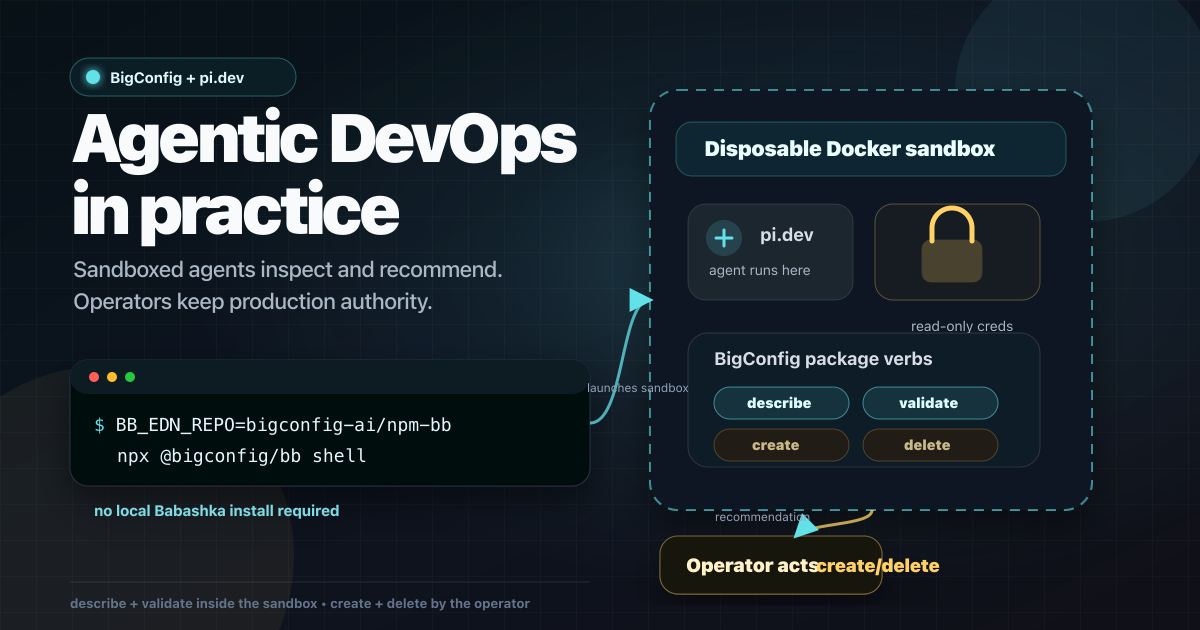
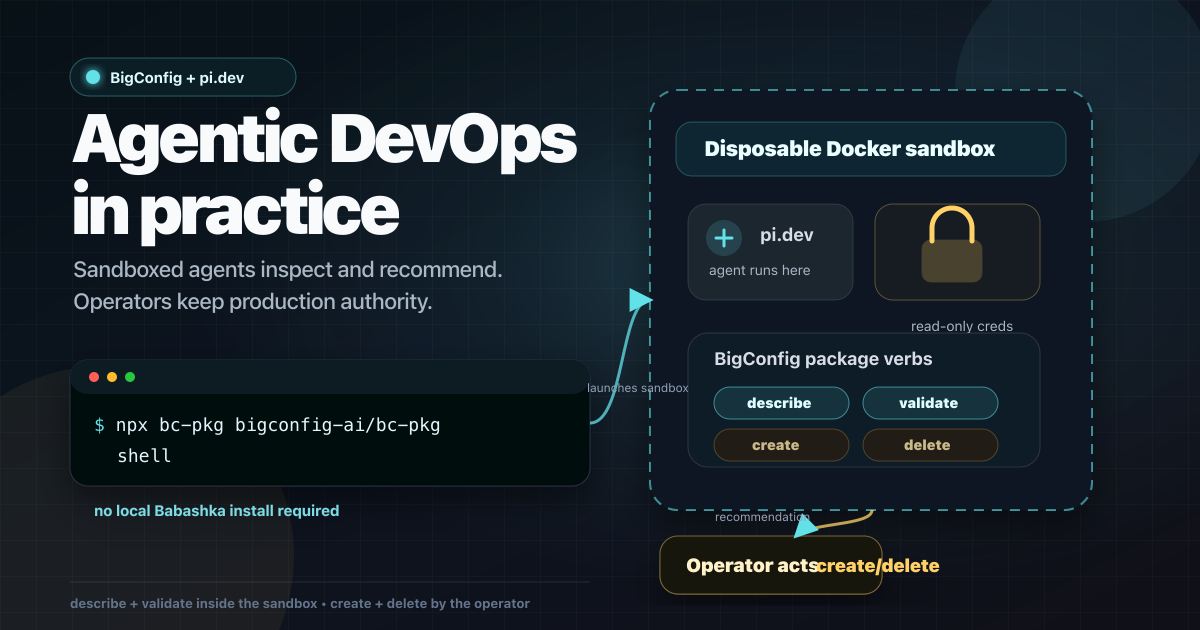
Rename bb launcher to bc-pkg

Changed region(s): [[0.0925, 0.6635, 0.37, 0.754]]

diff --git a/src/pages/talk/agentic-workflow-model/index.html b/src/pages/talk/agentic-workflow-model/index.html
@@ -231,7 +231,7 @@ aws ecs create-cluster --cluster-name "$CLUSTER" --region "$REGION"</code></pre>
       <section>
         <h2>Start with the Sandbox</h2>
         <p style="font-size: 0.85em;">The entry point is one command:</p>
-        <pre style="font-size: 0.5em;"><code>BB_EDN_REPO=bigconfig-ai/npm-bb npx @bigconfig/bb shell</code></pre>
+        <pre style="font-size: 0.5em;"><code>npx bc-pkg bigconfig-ai/bc-pkg shell</code></pre>
         <p style="font-size: 0.75em;">Launches Babashka through <code>npx</code> → reads <code>bb.edn</code> → runs Docker → creates a disposable container sandbox.</p>
         <div class="highlight-box" style="margin-top: 0.5em; font-size: 0.65em;">
           <p style="margin: 0;">The launcher and sandbox are the <strong>operating environment</strong>.<br>A BigConfig package is what you operate <em>from inside</em> that environment.</p>
@@ -261,7 +261,7 @@ aws ecs create-cluster --cluster-name "$CLUSTER" --region "$REGION"</code></pre>
         <div style="background: #f8fafc; border-radius: 8px; padding: 0.6em 1em;">
           <div style="font-size: 0.7em; text-align: left; font-family: monospace; line-height: 1.8;">
             operator<br>
-            &nbsp;&nbsp;→ launches sandbox with @bigconfig/bb<br>
+            &nbsp;&nbsp;→ launches sandbox with bc-pkg<br>
             &nbsp;&nbsp;→ starts pi.dev agent inside sandbox<br>
             &nbsp;&nbsp;→ provides read-only credentials only<br>
             &nbsp;&nbsp;→ asks agent to run describe/validate<br>
@@ -341,7 +341,7 @@ aws ecs create-cluster --cluster-name "$CLUSTER" --region "$REGION"</code></pre>
         <div style="background: #f0fdf4; border-radius: 8px; padding: 0.5em 1em; text-align: left; display: inline-block;">
           <ul style="font-size: 0.7em; margin: 0;">
             <li>Run agents inside <strong>disposable Docker containers</strong></li>
-            <li>Launch the sandbox with <strong>@bigconfig/bb</strong></li>
+            <li>Launch the sandbox with <strong>bc-pkg</strong></li>
             <li>Use BigConfig packages with a <strong>clear four-verb interface</strong></li>
             <li>Give the sandbox <strong>read-only credentials</strong> only</li>
             <li>Use <strong>describe and validate</strong> for agent investigation</li>

diff --git a/src/pages/talk/full-agentic-devops-talk/index.html b/src/pages/talk/full-agentic-devops-talk/index.html
@@ -560,7 +560,7 @@ k8s/
           <section>
             <h3>Start with the Sandbox</h3>
             <p class="small">The entry point is one command:</p>
-            <pre><code class="language-bash">BB_EDN_REPO=bigconfig-ai/npm-bb npx @bigconfig/bb shell</code></pre>
+            <pre><code class="language-bash">npx bc-pkg bigconfig-ai/bc-pkg shell</code></pre>
             <p class="small">Launches Babashka through <code>npx</code> → reads <code>bb.edn</code> → runs Docker → creates a disposable container sandbox.</p>
             <div class="highlight-box" style="margin-top: 0.5em; font-size: 0.65em;">
               <p style="margin: 0;">The launcher and sandbox are the <strong>operating environment</strong>.<br>A BigConfig package is what you operate <em>from inside</em> that environment.</p>
@@ -641,7 +641,7 @@ Steps:
             <h3>The Golden Path</h3>
             <div class="highlight-box" style="font-family: monospace; font-size: 0.6em; line-height: 1.8;">
               operator<br>
-              &nbsp;&nbsp;→ launches sandbox with @bigconfig/bb<br>
+              &nbsp;&nbsp;→ launches sandbox with bc-pkg<br>
               &nbsp;&nbsp;→ starts pi.dev agent inside sandbox<br>
               &nbsp;&nbsp;→ provides read-only credentials only<br>
               &nbsp;&nbsp;→ asks agent to run describe/validate<br>
@@ -717,7 +717,7 @@ Steps:
             <div class="highlight-box" style="display: inline-block; text-align: left;">
               <ul style="font-size: 0.68em; margin: 0;">
                 <li>✅ Run agents inside <strong>disposable Docker containers</strong></li>
-                <li>✅ Launch the sandbox with <strong>@bigconfig/bb</strong></li>
+                <li>✅ Launch the sandbox with <strong>bc-pkg</strong></li>
                 <li>✅ Use BigConfig packages with a <strong>clear four-verb interface</strong></li>
                 <li>✅ Give the sandbox <strong>read-only credentials</strong> only</li>
                 <li>✅ Use <strong>describe and validate</strong> for agent investigation</li>

diff --git a/src/pages/talk/agentic-devops-in-practice/index.html b/src/pages/talk/agentic-devops-in-practice/index.html
@@ -55,13 +55,13 @@
       <section>
         <h2>The Operating Model</h2>
         <ol class="steps">
-          <li>Launch a <strong>disposable Docker sandbox</strong> with <code>@bigconfig/bb</code></li>
+          <li>Launch a <strong>disposable Docker sandbox</strong> with <code>bc-pkg</code></li>
           <li>Give the sandbox <strong>read-only credentials only</strong></li>
           <li>Agent runs <code>describe</code> + <code>validate</code> to inspect</li>
           <li>Agent recommends the next step</li>
           <li>Operator decides and runs <code>create</code> / <code>delete</code></li>
         </ol>
-        <p style="margin-top: 1em; font-size: 0.85em;"><code>npx @bigconfig/bb shell</code> → container sandbox → pi.dev agent</p>
+        <p style="margin-top: 1em; font-size: 0.85em;"><code>npx bc-pkg bigconfig-ai/bc-pkg shell</code> → container sandbox → pi.dev agent</p>
       </section>
 
       <!-- SLIDE 4: The four verbs -->

diff --git a/plans/06.md b/plans/06.md
@@ -4,7 +4,7 @@
 
 Write a blog article titled **"Agentic DevOps in practice"**.
 
-The article should explain a practical operating model for using agents with BigConfig packages safely: launch a disposable Docker sandbox with `@bigconfig/bb`, run the agent inside the sandbox with read-only credentials, let the agent use `describe` and `validate`, and keep `create` and `delete` as operator actions.
+The article should explain a practical operating model for using agents with BigConfig packages safely: launch a disposable Docker sandbox with `bc-pkg`, run the agent inside the sandbox with read-only credentials, let the agent use `describe` and `validate`, and keep `create` and `delete` as operator actions.
 
 ## Main thesis
 
@@ -29,23 +29,23 @@ Agentic DevOps is not about giving an agent the same power as the operator. The 
 Show this command near the top of the article:
 
 ```bash
-BB_EDN_REPO=bigconfig-ai/npm-bb npx @bigconfig/bb shell
+npx bc-pkg bigconfig-ai/bc-pkg shell
 ```
 
 Explain that:
 
-- `@bigconfig/bb` is the launcher.
+- `bc-pkg` is the launcher.
 - It launches Babashka `bb` through `npx`.
 - Node.js/npm tooling is enough to invoke the launcher.
 - No local Babashka installation is required.
-- `BB_EDN_REPO=bigconfig-ai/npm-bb` points to a repository containing a `bb.edn`.
+- `bigconfig-ai/bc-pkg` is passed to `bc-pkg` as the repository containing a `bb.edn`.
 - The `bb.edn` contains a `shell` task.
 - The `shell` task uses Docker and the repo's `Dockerfile` to create a disposable container sandbox.
 - The agent runs inside that sandbox.
 
 ## Correct terminology
 
-- `bigconfig-ai/npm-bb` is **not** a BigConfig package.
+- `bigconfig-ai/bc-pkg` is **not** a BigConfig package.
 - It is a repository containing:
   - a `bb.edn`
   - a `shell` task
@@ -86,7 +86,7 @@ Use this flow as the core pattern:
 
 ```text
 operator
-  -> launches sandbox with @bigconfig/bb
+  -> launches sandbox with bc-pkg
   -> starts pi.dev agent inside sandbox
   -> provides read-only credentials only
   -> asks agent to run describe/validate
@@ -137,7 +137,7 @@ Anti-pattern:
 ## Patterns to promote
 
 - Run agents inside disposable Docker containers.
-- Launch the sandbox with `@bigconfig/bb`.
+- Launch the sandbox with `bc-pkg`.
 - Use `describe` and `validate` for agent investigation.
 - Give the sandbox read-only credentials only.
 - Keep `create` and `delete` with the operator.
@@ -163,15 +163,15 @@ Introduce the problem: agents are useful for operations, but they need boundarie
 Present the command:
 
 ```bash
-BB_EDN_REPO=bigconfig-ai/npm-bb npx @bigconfig/bb shell
+npx bc-pkg bigconfig-ai/bc-pkg shell
 ```
 
 Explain the launcher flow:
 
 ```text
-npx @bigconfig/bb
+npx bc-pkg bigconfig-ai/bc-pkg shell
   -> launches Babashka bb
-  -> reads bb.edn from bigconfig-ai/npm-bb
+  -> reads bb.edn from bigconfig-ai/bc-pkg
   -> runs the shell task
   -> uses Dockerfile/Docker
   -> creates a disposable container sandbox

diff --git a/plans/03.md b/plans/03.md
@@ -4,7 +4,7 @@
 
 # Requirement
 - to install the package bigconfig-ai/once you need a one-line prompt
-- the prompt is "run BB_EDN_REPO=bigconfig-ai/once npx @bigconfig/bb validate and iterate on failures"
+- the prompt is "run npx bc-pkg bigconfig-ai/once validate and iterate on failures"
 - model used deepseek-v4-flash
 - total cost 1.3 cents
 
@@ -22,7 +22,7 @@ Not a typo. One cent and three tenths — less than the rounding error on your c
 
 No setup wizard. No 40-page docs. No "clone this, export that, now configure the YAML." You paste a single line into your AI coding agent:
 
-run BB_EDN_REPO=bigconfig-ai/once npx @bigconfig/bb validate and iterate on failures
+run npx bc-pkg bigconfig-ai/once validate and iterate on failures
 
 …and it installs itself. It validates, hits failures, fixes them, and re-runs until it's green. The whole loop ran on deepseek-v4-flash and cost just over a penny.
 

diff --git a/plans/02-linkedin.md b/plans/02-linkedin.md
@@ -13,7 +13,7 @@ So I built BigConfig: an infrastructure package manager where configuration is r
 
 Here's the part I'm proud of. There's no install script to study, no getting-started guide to skim, no flags to memorize. You hand one line to your AI coding agent:
 
-run BB_EDN_REPO=bigconfig-ai/once npx @bigconfig/bb validate and iterate on failures
+run npx bc-pkg bigconfig-ai/once validate and iterate on failures
 
 That's it. The agent pulls the package set, runs validation, reads the failures, fixes them, and re-runs until your configuration is green. You review a working result instead of assembling one by hand. The feedback loop that used to be a human in a terminal is now a tight machine loop — and validation is the contract that keeps it honest.
 

diff --git a/plans/04.md b/plans/04.md
@@ -13,7 +13,7 @@
 - Anti-pattern: The Agent has full credentials like the operator
 - Anti-pattern: Creating MCPs, instead of SSH ForceCommand CLIs
 - CTA: https://bigconfig.ai/
-- One-line command: BB_EDN_REPO=bigconfig-ai/npm-bb npx @bigconfig/bb shell
+- One-line command: npx bc-pkg bigconfig-ai/bc-pkg shell
 
 # Deliverables
 - Slide: `public/campaign-cost.svg` (1200x627, LinkedIn share format, matches site brand palette)

diff --git a/plans/02.md b/plans/02.md
@@ -3,4 +3,4 @@ Make a slide with svg for a marketing campaign for BigConfig
 
 # Requirement
 - to install the package bigconfig-ai/once you need a one-line prompt
-- the prompt is "run BB_EDN_REPO=bigconfig-ai/once npx @bigconfig/bb validate and iterate on failures"
+- the prompt is "run npx bc-pkg bigconfig-ai/once validate and iterate on failures"

diff --git a/plans/09.md b/plans/09.md
@@ -1,0 +1,9 @@
+# Goal
+Global renaming
+
+# Requirements
+- Validate command: `npx bc-pkg bigconfig-ai/once validate`
+- Repository selection is positional via the CLI.
+- Shell command: `npx bc-pkg bigconfig-ai/bc-pkg shell`
+- GitHub repo: `bigconfig-ai/bc-pkg`
+- Node.js package: `bc-pkg`

diff --git a/plans/04-linkedin-post.md b/plans/04-linkedin-post.md
@@ -40,7 +40,7 @@ Containers do not magically make production safe. But a disposable execution env
 Run it in a disposable container:
 
 ```bash
-BB_EDN_REPO=bigconfig-ai/npm-bb npx @bigconfig/bb shell
+npx bc-pkg bigconfig-ai/bc-pkg shell
 ```
 
 Docs:
